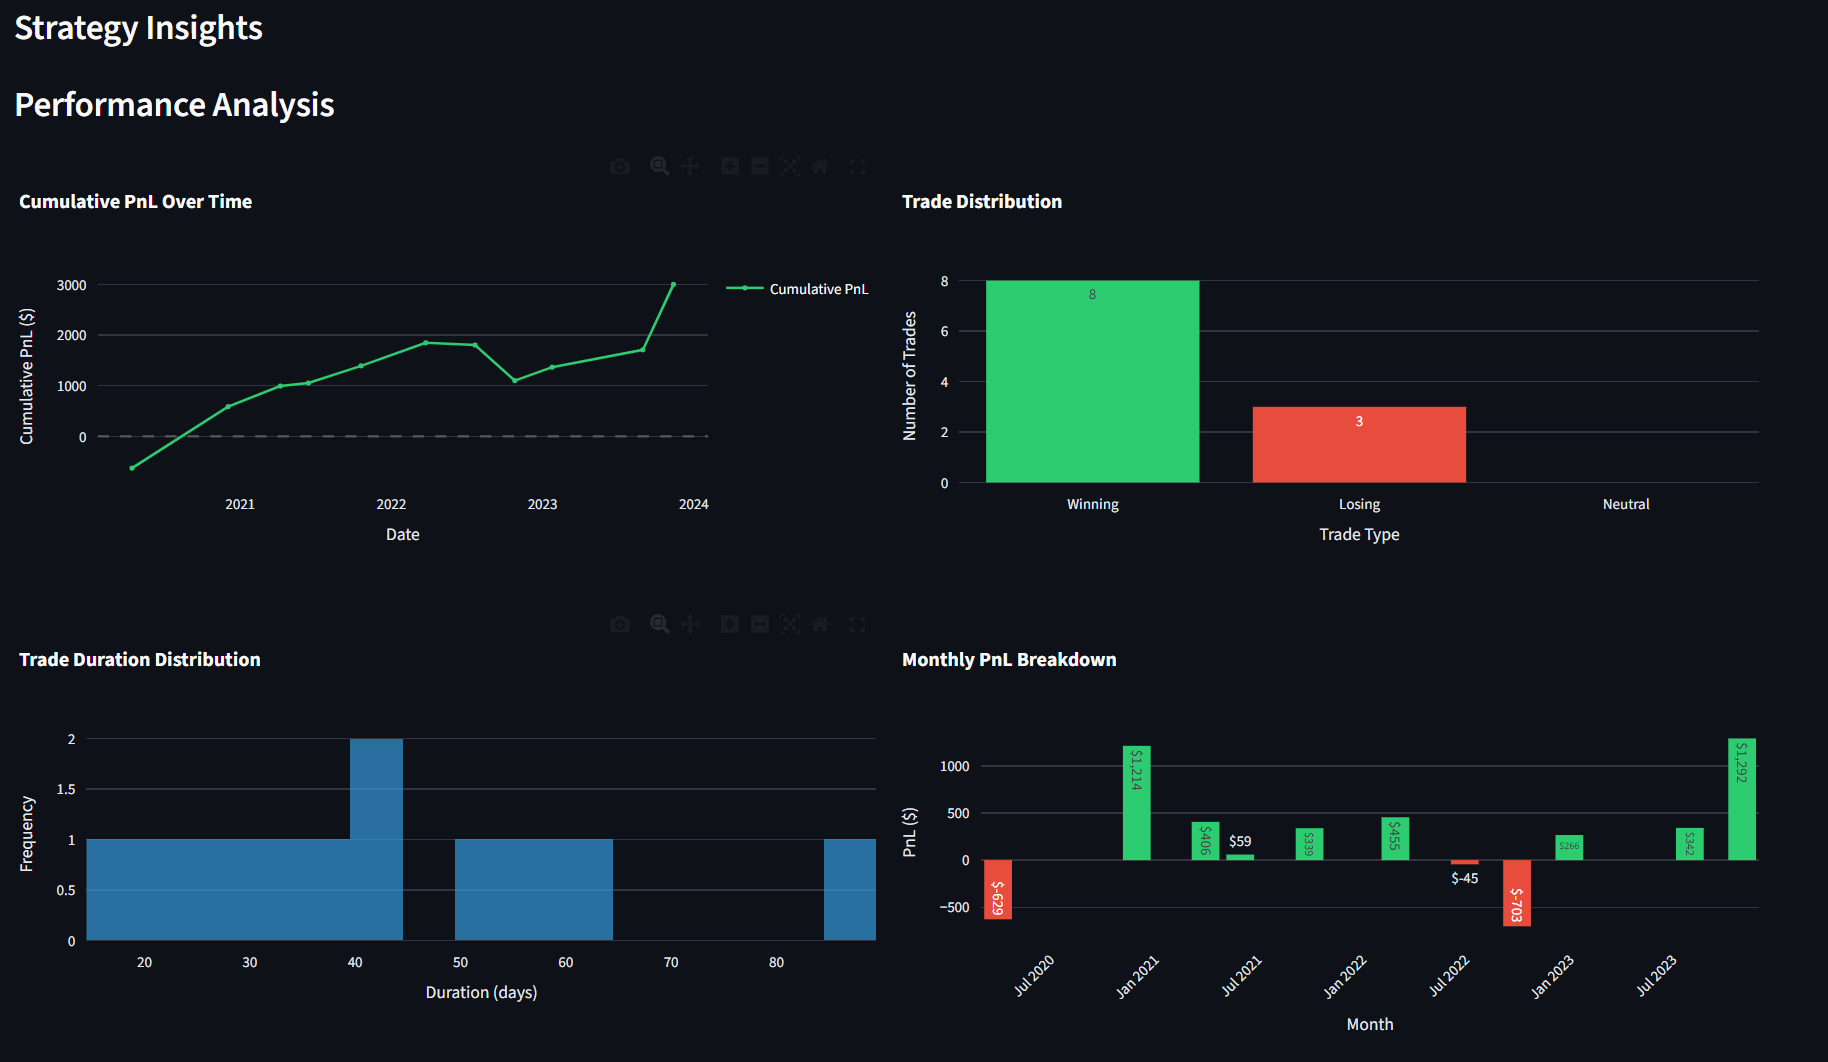
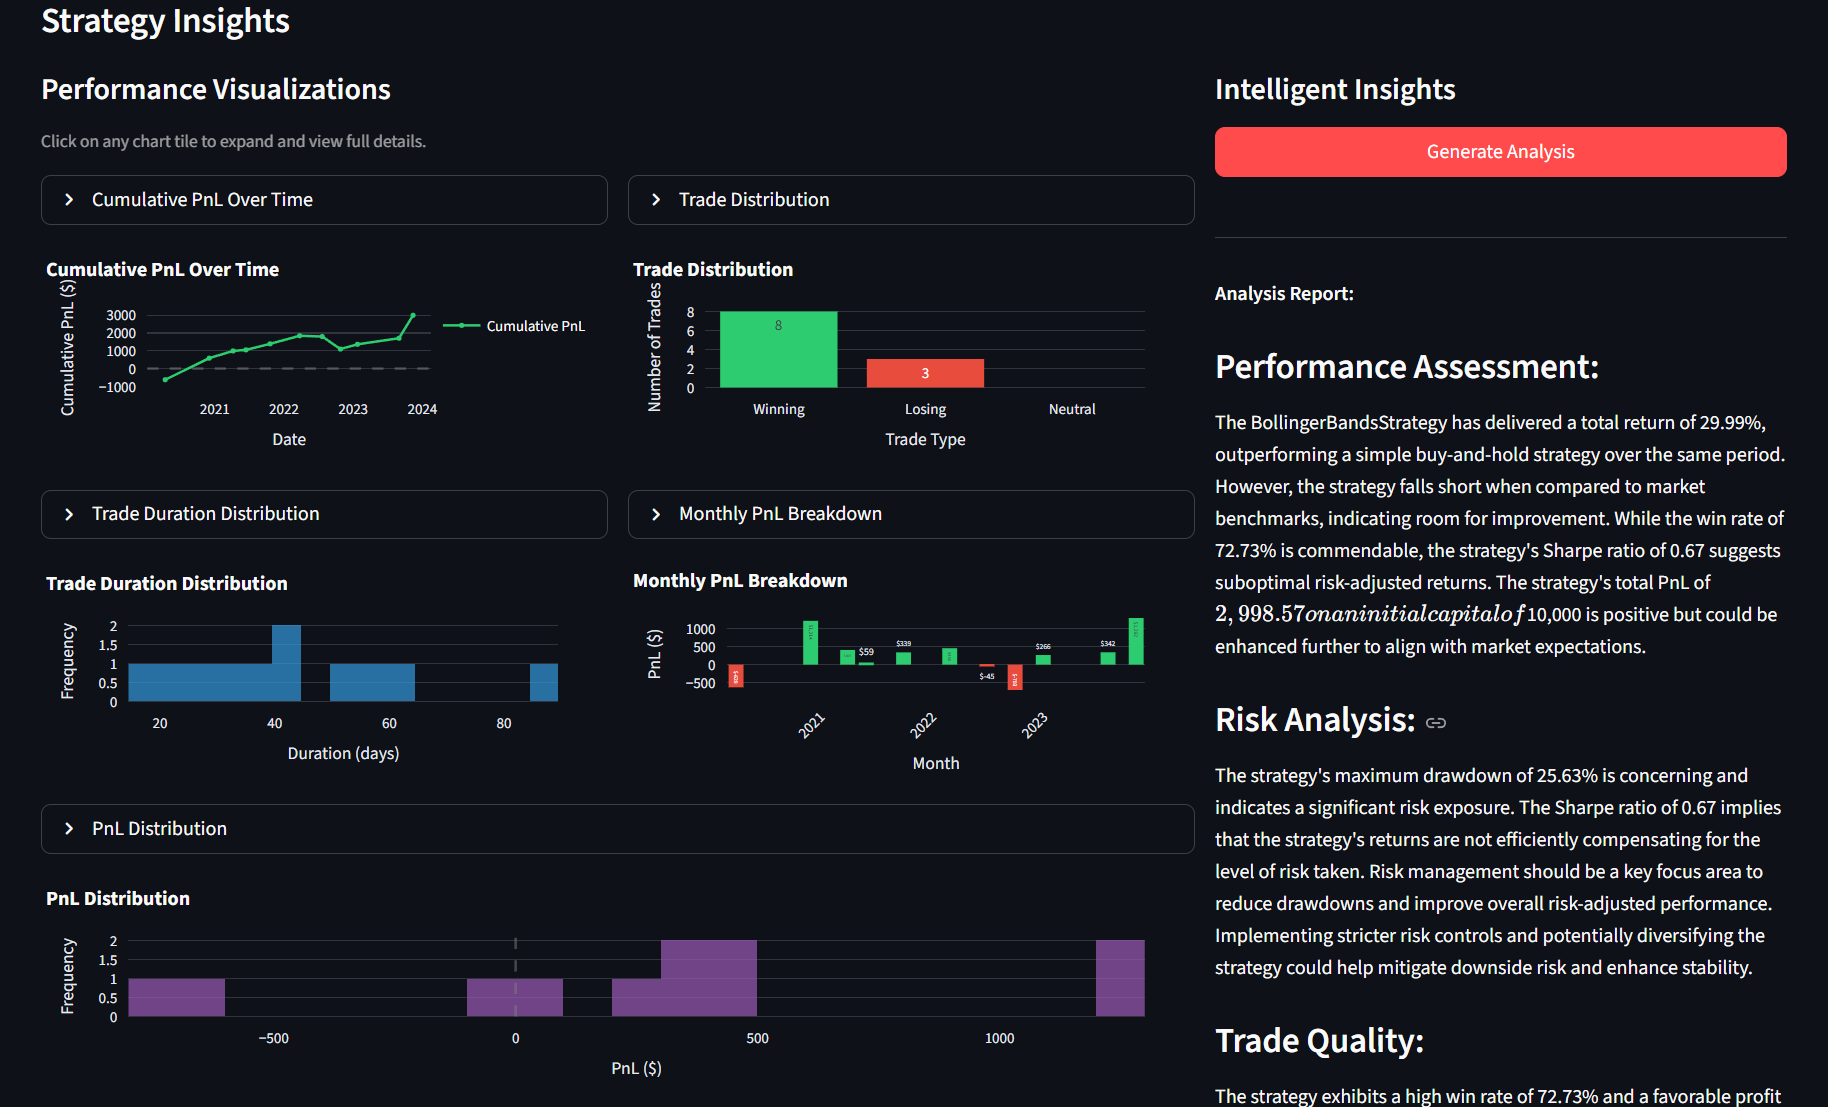
fixed readme

diff --git a/README.md b/README.md
@@ -2,6 +2,20 @@
 
 A modular dashboard for equity strategy backtesting, integrating market data, news sentiment analysis, and strategy performance insights using a multi-adapter architecture.
 
+## 
+
+![Dashboard Home](images/BacktestDash-Home.png)
+
+### Strategy Visualization
+Interactive charts with several technical indicators.
+
+![Bollinger Bands Strategy](images/BacktestDash-Bollinger.png)
+
+### Strategy Insights & Analysis
+Comprehensive performance analysis with intelligent insights and visualizations.
+
+![Strategy Insights](images/BacktestDash-StrategyInsights.png)
+
 ## Features
 
 - Multi-source data integration (market prices via yfinance, news scraping)
